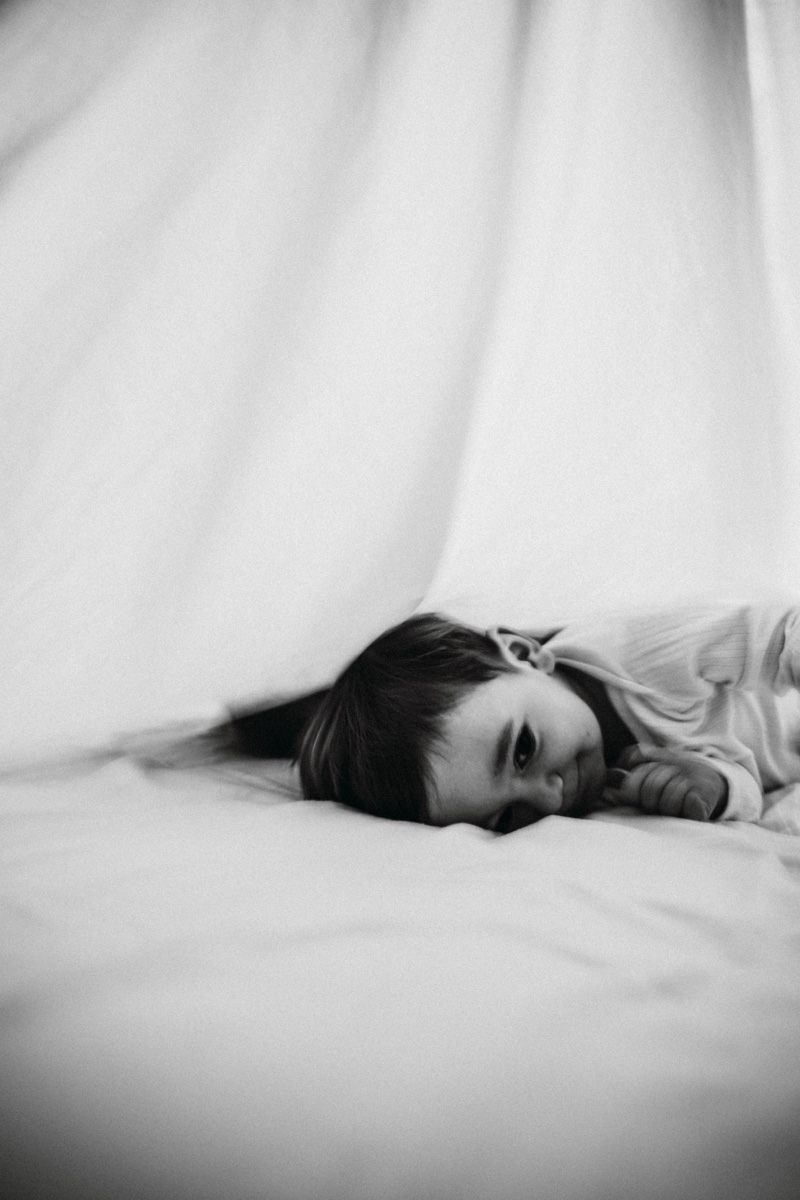
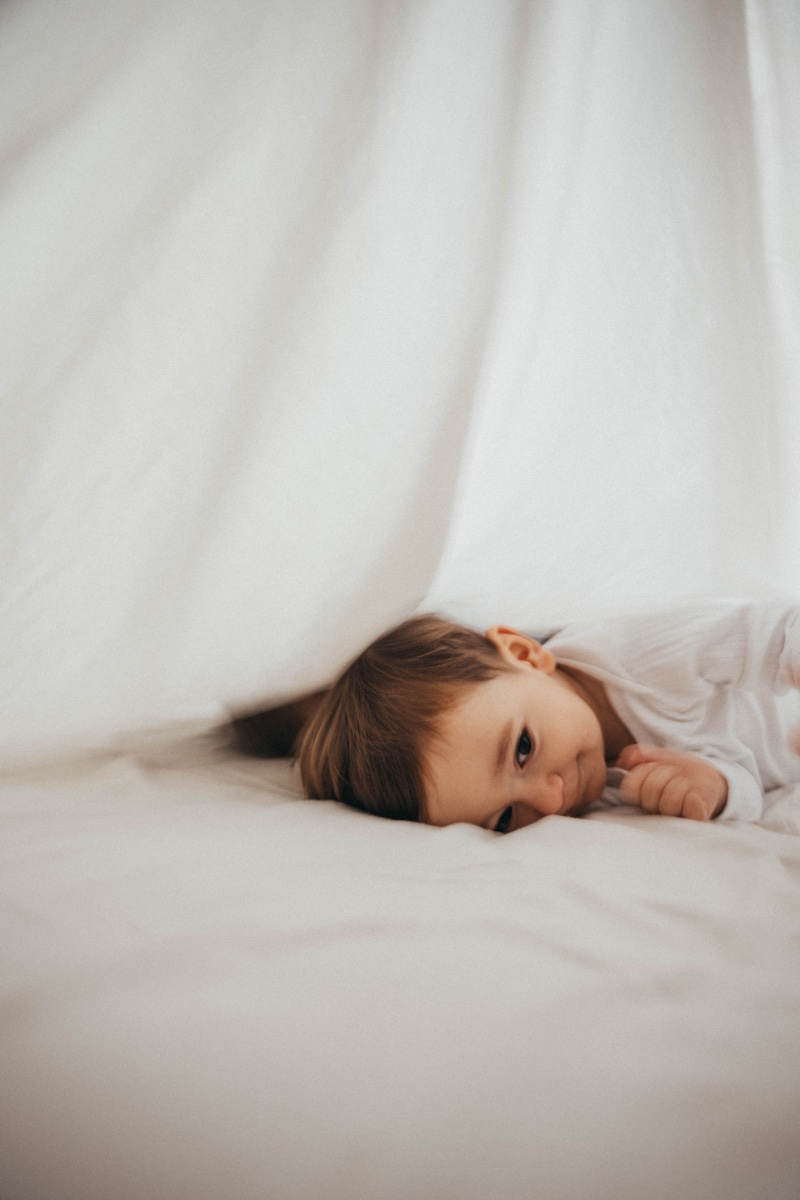
Pablo & Marco: filas que comparten altura, fila 5 más cuadrada, trío a color

diff --git a/en/photo/pablo-marco/index.html b/en/photo/pablo-marco/index.html
@@ -9,7 +9,7 @@
 
 <link rel="alternate" hreflang="es" href="/es/photo/pablo-marco/">
 <link rel="preload" href="/assets/fonts/inter-tight-400.woff2" as="font" type="font/woff2" crossorigin>
-<link rel="stylesheet" href="/assets/css/style.css?v=1794504702911">
+<link rel="stylesheet" href="/assets/css/style.css?v=1794505840093">
 <script>try{var r=document.referrer,m=r&&r.indexOf(location.origin)===0?r.slice(location.origin.length):"";if(/^\/(es|en)\/(film|photo)\/[^\/]+\//.test(m))document.documentElement.classList.add("brand-done")}catch(e){}</script>
 </head>
 <body class="has-compact">
@@ -38,18 +38,18 @@
       <figure class="" style="--ar:0.6667"><img src="/assets/img/photo/pablo-marco/06-2400.jpg" srcset="/assets/img/photo/pablo-marco/06-1200.jpg 1200w, /assets/img/photo/pablo-marco/06-2400.jpg 2400w" sizes="(min-width: 900px) 378px, 100vw" alt="Pablo &amp; Marco" width="1600" height="2400" loading="lazy"></figure>
     </div>
     <div class="scene pair" style="--w:72%;--a:start">
-      <figure class="" style="--ar:0.6667"><img src="/assets/img/photo/pablo-marco/07-2400.jpg" srcset="/assets/img/photo/pablo-marco/07-1200.jpg 1200w, /assets/img/photo/pablo-marco/07-2400.jpg 2400w" sizes="(min-width: 900px) 389px, 100vw" alt="Pablo &amp; Marco" width="1600" height="2400" loading="lazy"></figure>
-      <figure class="" style="--ar:0.6667"><img src="/assets/img/photo/pablo-marco/08-2400.jpg" srcset="/assets/img/photo/pablo-marco/08-1200.jpg 1200w, /assets/img/photo/pablo-marco/08-2400.jpg 2400w" sizes="(min-width: 900px) 389px, 100vw" alt="Pablo &amp; Marco" width="1600" height="2400" loading="lazy"></figure>
+      <figure class="crop" style="--ar:0.8"><img src="/assets/img/photo/pablo-marco/07-2400.jpg" srcset="/assets/img/photo/pablo-marco/07-1200.jpg 1200w, /assets/img/photo/pablo-marco/07-2400.jpg 2400w" sizes="(min-width: 900px) 389px, 100vw" alt="Pablo &amp; Marco" width="1600" height="2400" loading="lazy"></figure>
+      <figure class="crop" style="--ar:0.8"><img src="/assets/img/photo/pablo-marco/08-2400.jpg" srcset="/assets/img/photo/pablo-marco/08-1200.jpg 1200w, /assets/img/photo/pablo-marco/08-2400.jpg 2400w" sizes="(min-width: 900px) 389px, 100vw" alt="Pablo &amp; Marco" width="1600" height="2400" loading="lazy"></figure>
     </div>
-    <div class="scene single" style="--w:50%;--a:end">
-      <figure class="" style="--ar:0.6667"><img src="/assets/img/photo/pablo-marco/09-2400.jpg" srcset="/assets/img/photo/pablo-marco/09-1200.jpg 1200w, /assets/img/photo/pablo-marco/09-2400.jpg 2400w" sizes="(min-width: 900px) 540px, 100vw" alt="Pablo &amp; Marco" width="1600" height="2400" loading="lazy"></figure>
+    <div class="scene single" style="--w:44%;--a:end">
+      <figure class="" style="--ar:0.6667"><img src="/assets/img/photo/pablo-marco/09-2400.jpg" srcset="/assets/img/photo/pablo-marco/09-1200.jpg 1200w, /assets/img/photo/pablo-marco/09-2400.jpg 2400w" sizes="(min-width: 900px) 475px, 100vw" alt="Pablo &amp; Marco" width="1600" height="2400" loading="lazy"></figure>
     </div>
-    <div class="scene single" style="--w:60%;--a:center">
-      <figure class="" style="--ar:0.6667"><img src="/assets/img/photo/pablo-marco/10-2400.jpg" srcset="/assets/img/photo/pablo-marco/10-1200.jpg 1200w, /assets/img/photo/pablo-marco/10-2400.jpg 2400w" sizes="(min-width: 900px) 648px, 100vw" alt="Pablo &amp; Marco" width="1600" height="2400" loading="lazy"></figure>
+    <div class="scene single up" style="--w:50%;--a:start;--up:36">
+      <figure class="" style="--ar:0.6667"><img src="/assets/img/photo/pablo-marco/10-2400.jpg" srcset="/assets/img/photo/pablo-marco/10-1200.jpg 1200w, /assets/img/photo/pablo-marco/10-2400.jpg 2400w" sizes="(min-width: 900px) 540px, 100vw" alt="Pablo &amp; Marco" width="1600" height="2400" loading="lazy"></figure>
     </div>
-    <div class="scene pair" style="--w:66%;--a:end">
-      <figure class="" style="--ar:0.6667"><img src="/assets/img/photo/pablo-marco/11-2400.jpg" srcset="/assets/img/photo/pablo-marco/11-1200.jpg 1200w, /assets/img/photo/pablo-marco/11-2400.jpg 2400w" sizes="(min-width: 900px) 356px, 100vw" alt="Pablo &amp; Marco" width="1600" height="2400" loading="lazy"></figure>
-      <figure class="" style="--ar:0.6667"><img src="/assets/img/photo/pablo-marco/12-2400.jpg" srcset="/assets/img/photo/pablo-marco/12-1200.jpg 1200w, /assets/img/photo/pablo-marco/12-2400.jpg 2400w" sizes="(min-width: 900px) 356px, 100vw" alt="Pablo &amp; Marco" width="1600" height="2400" loading="lazy"></figure>
+    <div class="scene pair up" style="--w:46%;--a:end;--up:18">
+      <figure class="" style="--ar:0.6667"><img src="/assets/img/photo/pablo-marco/11-2400.jpg" srcset="/assets/img/photo/pablo-marco/11-1200.jpg 1200w, /assets/img/photo/pablo-marco/11-2400.jpg 2400w" sizes="(min-width: 900px) 248px, 100vw" alt="Pablo &amp; Marco" width="1600" height="2400" loading="lazy"></figure>
+      <figure class="" style="--ar:0.6667"><img src="/assets/img/photo/pablo-marco/12-2400.jpg" srcset="/assets/img/photo/pablo-marco/12-1200.jpg 1200w, /assets/img/photo/pablo-marco/12-2400.jpg 2400w" sizes="(min-width: 900px) 248px, 100vw" alt="Pablo &amp; Marco" width="1600" height="2400" loading="lazy"></figure>
     </div>
     <div class="scene single" style="--w:54%;--a:start">
       <figure class="" style="--ar:0.6667"><img src="/assets/img/photo/pablo-marco/13-2400.jpg" srcset="/assets/img/photo/pablo-marco/13-1200.jpg 1200w, /assets/img/photo/pablo-marco/13-2400.jpg 2400w" sizes="(min-width: 900px) 583px, 100vw" alt="Pablo &amp; Marco" width="1600" height="2400" loading="lazy"></figure>
@@ -66,8 +66,8 @@
       <figure class="" style="--ar:0.6667"><img src="/assets/img/photo/pablo-marco/18-2400.jpg" srcset="/assets/img/photo/pablo-marco/18-1200.jpg 1200w, /assets/img/photo/pablo-marco/18-2400.jpg 2400w" sizes="(min-width: 900px) 317px, 100vw" alt="Pablo &amp; Marco" width="1600" height="2400" loading="lazy"></figure>
       <figure class="" style="--ar:0.6667"><img src="/assets/img/photo/pablo-marco/19-2400.jpg" srcset="/assets/img/photo/pablo-marco/19-1200.jpg 1200w, /assets/img/photo/pablo-marco/19-2400.jpg 2400w" sizes="(min-width: 900px) 317px, 100vw" alt="Pablo &amp; Marco" width="1600" height="2400" loading="lazy"></figure>
     </div>
-    <div class="scene single" style="--w:50%;--a:center">
-      <figure class="" style="--ar:0.6667"><img src="/assets/img/photo/pablo-marco/20-2400.jpg" srcset="/assets/img/photo/pablo-marco/20-1200.jpg 1200w, /assets/img/photo/pablo-marco/20-2400.jpg 2400w" sizes="(min-width: 900px) 540px, 100vw" alt="Pablo &amp; Marco" width="1600" height="2400" loading="lazy"></figure>
+    <div class="scene single" style="--w:64%;--a:center">
+      <figure class="" style="--ar:0.6667"><img src="/assets/img/photo/pablo-marco/20-2400.jpg" srcset="/assets/img/photo/pablo-marco/20-1200.jpg 1200w, /assets/img/photo/pablo-marco/20-2400.jpg 2400w" sizes="(min-width: 900px) 691px, 100vw" alt="Pablo &amp; Marco" width="1600" height="2400" loading="lazy"></figure>
     </div>
     <div class="scene pair" style="--w:70%;--a:start">
       <figure class="" style="--ar:0.6667"><img src="/assets/img/photo/pablo-marco/21-2400.jpg" srcset="/assets/img/photo/pablo-marco/21-1200.jpg 1200w, /assets/img/photo/pablo-marco/21-2400.jpg 2400w" sizes="(min-width: 900px) 378px, 100vw" alt="Pablo &amp; Marco" width="1600" height="2400" loading="lazy"></figure>

diff --git a/es/photo/pablo-marco/index.html b/es/photo/pablo-marco/index.html
@@ -9,7 +9,7 @@
 
 <link rel="alternate" hreflang="en" href="/en/photo/pablo-marco/">
 <link rel="preload" href="/assets/fonts/inter-tight-400.woff2" as="font" type="font/woff2" crossorigin>
-<link rel="stylesheet" href="/assets/css/style.css?v=1794504702911">
+<link rel="stylesheet" href="/assets/css/style.css?v=1794505840093">
 <script>try{var r=document.referrer,m=r&&r.indexOf(location.origin)===0?r.slice(location.origin.length):"";if(/^\/(es|en)\/(film|photo)\/[^\/]+\//.test(m))document.documentElement.classList.add("brand-done")}catch(e){}</script>
 </head>
 <body class="has-compact">
@@ -38,18 +38,18 @@
       <figure class="" style="--ar:0.6667"><img src="/assets/img/photo/pablo-marco/06-2400.jpg" srcset="/assets/img/photo/pablo-marco/06-1200.jpg 1200w, /assets/img/photo/pablo-marco/06-2400.jpg 2400w" sizes="(min-width: 900px) 378px, 100vw" alt="Pablo &amp; Marco" width="1600" height="2400" loading="lazy"></figure>
     </div>
     <div class="scene pair" style="--w:72%;--a:start">
-      <figure class="" style="--ar:0.6667"><img src="/assets/img/photo/pablo-marco/07-2400.jpg" srcset="/assets/img/photo/pablo-marco/07-1200.jpg 1200w, /assets/img/photo/pablo-marco/07-2400.jpg 2400w" sizes="(min-width: 900px) 389px, 100vw" alt="Pablo &amp; Marco" width="1600" height="2400" loading="lazy"></figure>
-      <figure class="" style="--ar:0.6667"><img src="/assets/img/photo/pablo-marco/08-2400.jpg" srcset="/assets/img/photo/pablo-marco/08-1200.jpg 1200w, /assets/img/photo/pablo-marco/08-2400.jpg 2400w" sizes="(min-width: 900px) 389px, 100vw" alt="Pablo &amp; Marco" width="1600" height="2400" loading="lazy"></figure>
+      <figure class="crop" style="--ar:0.8"><img src="/assets/img/photo/pablo-marco/07-2400.jpg" srcset="/assets/img/photo/pablo-marco/07-1200.jpg 1200w, /assets/img/photo/pablo-marco/07-2400.jpg 2400w" sizes="(min-width: 900px) 389px, 100vw" alt="Pablo &amp; Marco" width="1600" height="2400" loading="lazy"></figure>
+      <figure class="crop" style="--ar:0.8"><img src="/assets/img/photo/pablo-marco/08-2400.jpg" srcset="/assets/img/photo/pablo-marco/08-1200.jpg 1200w, /assets/img/photo/pablo-marco/08-2400.jpg 2400w" sizes="(min-width: 900px) 389px, 100vw" alt="Pablo &amp; Marco" width="1600" height="2400" loading="lazy"></figure>
     </div>
-    <div class="scene single" style="--w:50%;--a:end">
-      <figure class="" style="--ar:0.6667"><img src="/assets/img/photo/pablo-marco/09-2400.jpg" srcset="/assets/img/photo/pablo-marco/09-1200.jpg 1200w, /assets/img/photo/pablo-marco/09-2400.jpg 2400w" sizes="(min-width: 900px) 540px, 100vw" alt="Pablo &amp; Marco" width="1600" height="2400" loading="lazy"></figure>
+    <div class="scene single" style="--w:44%;--a:end">
+      <figure class="" style="--ar:0.6667"><img src="/assets/img/photo/pablo-marco/09-2400.jpg" srcset="/assets/img/photo/pablo-marco/09-1200.jpg 1200w, /assets/img/photo/pablo-marco/09-2400.jpg 2400w" sizes="(min-width: 900px) 475px, 100vw" alt="Pablo &amp; Marco" width="1600" height="2400" loading="lazy"></figure>
     </div>
-    <div class="scene single" style="--w:60%;--a:center">
-      <figure class="" style="--ar:0.6667"><img src="/assets/img/photo/pablo-marco/10-2400.jpg" srcset="/assets/img/photo/pablo-marco/10-1200.jpg 1200w, /assets/img/photo/pablo-marco/10-2400.jpg 2400w" sizes="(min-width: 900px) 648px, 100vw" alt="Pablo &amp; Marco" width="1600" height="2400" loading="lazy"></figure>
+    <div class="scene single up" style="--w:50%;--a:start;--up:36">
+      <figure class="" style="--ar:0.6667"><img src="/assets/img/photo/pablo-marco/10-2400.jpg" srcset="/assets/img/photo/pablo-marco/10-1200.jpg 1200w, /assets/img/photo/pablo-marco/10-2400.jpg 2400w" sizes="(min-width: 900px) 540px, 100vw" alt="Pablo &amp; Marco" width="1600" height="2400" loading="lazy"></figure>
     </div>
-    <div class="scene pair" style="--w:66%;--a:end">
-      <figure class="" style="--ar:0.6667"><img src="/assets/img/photo/pablo-marco/11-2400.jpg" srcset="/assets/img/photo/pablo-marco/11-1200.jpg 1200w, /assets/img/photo/pablo-marco/11-2400.jpg 2400w" sizes="(min-width: 900px) 356px, 100vw" alt="Pablo &amp; Marco" width="1600" height="2400" loading="lazy"></figure>
-      <figure class="" style="--ar:0.6667"><img src="/assets/img/photo/pablo-marco/12-2400.jpg" srcset="/assets/img/photo/pablo-marco/12-1200.jpg 1200w, /assets/img/photo/pablo-marco/12-2400.jpg 2400w" sizes="(min-width: 900px) 356px, 100vw" alt="Pablo &amp; Marco" width="1600" height="2400" loading="lazy"></figure>
+    <div class="scene pair up" style="--w:46%;--a:end;--up:18">
+      <figure class="" style="--ar:0.6667"><img src="/assets/img/photo/pablo-marco/11-2400.jpg" srcset="/assets/img/photo/pablo-marco/11-1200.jpg 1200w, /assets/img/photo/pablo-marco/11-2400.jpg 2400w" sizes="(min-width: 900px) 248px, 100vw" alt="Pablo &amp; Marco" width="1600" height="2400" loading="lazy"></figure>
+      <figure class="" style="--ar:0.6667"><img src="/assets/img/photo/pablo-marco/12-2400.jpg" srcset="/assets/img/photo/pablo-marco/12-1200.jpg 1200w, /assets/img/photo/pablo-marco/12-2400.jpg 2400w" sizes="(min-width: 900px) 248px, 100vw" alt="Pablo &amp; Marco" width="1600" height="2400" loading="lazy"></figure>
     </div>
     <div class="scene single" style="--w:54%;--a:start">
       <figure class="" style="--ar:0.6667"><img src="/assets/img/photo/pablo-marco/13-2400.jpg" srcset="/assets/img/photo/pablo-marco/13-1200.jpg 1200w, /assets/img/photo/pablo-marco/13-2400.jpg 2400w" sizes="(min-width: 900px) 583px, 100vw" alt="Pablo &amp; Marco" width="1600" height="2400" loading="lazy"></figure>
@@ -66,8 +66,8 @@
       <figure class="" style="--ar:0.6667"><img src="/assets/img/photo/pablo-marco/18-2400.jpg" srcset="/assets/img/photo/pablo-marco/18-1200.jpg 1200w, /assets/img/photo/pablo-marco/18-2400.jpg 2400w" sizes="(min-width: 900px) 317px, 100vw" alt="Pablo &amp; Marco" width="1600" height="2400" loading="lazy"></figure>
       <figure class="" style="--ar:0.6667"><img src="/assets/img/photo/pablo-marco/19-2400.jpg" srcset="/assets/img/photo/pablo-marco/19-1200.jpg 1200w, /assets/img/photo/pablo-marco/19-2400.jpg 2400w" sizes="(min-width: 900px) 317px, 100vw" alt="Pablo &amp; Marco" width="1600" height="2400" loading="lazy"></figure>
     </div>
-    <div class="scene single" style="--w:50%;--a:center">
-      <figure class="" style="--ar:0.6667"><img src="/assets/img/photo/pablo-marco/20-2400.jpg" srcset="/assets/img/photo/pablo-marco/20-1200.jpg 1200w, /assets/img/photo/pablo-marco/20-2400.jpg 2400w" sizes="(min-width: 900px) 540px, 100vw" alt="Pablo &amp; Marco" width="1600" height="2400" loading="lazy"></figure>
+    <div class="scene single" style="--w:64%;--a:center">
+      <figure class="" style="--ar:0.6667"><img src="/assets/img/photo/pablo-marco/20-2400.jpg" srcset="/assets/img/photo/pablo-marco/20-1200.jpg 1200w, /assets/img/photo/pablo-marco/20-2400.jpg 2400w" sizes="(min-width: 900px) 691px, 100vw" alt="Pablo &amp; Marco" width="1600" height="2400" loading="lazy"></figure>
     </div>
     <div class="scene pair" style="--w:70%;--a:start">
       <figure class="" style="--ar:0.6667"><img src="/assets/img/photo/pablo-marco/21-2400.jpg" srcset="/assets/img/photo/pablo-marco/21-1200.jpg 1200w, /assets/img/photo/pablo-marco/21-2400.jpg 2400w" sizes="(min-width: 900px) 378px, 100vw" alt="Pablo &amp; Marco" width="1600" height="2400" loading="lazy"></figure>

diff --git a/assets/css/style.css b/assets/css/style.css
@@ -847,3 +847,7 @@ body[data-pv="b"] .book { gap: 64px; }
 .all-photos a { display: inline-flex; align-items: center; min-height: 44px; padding: 0 22px; border: 1px solid var(--accent); color: var(--accent); font-size: 11px; font-weight: 500; letter-spacing: .2em; text-transform: uppercase; text-decoration: none; transition: background-color .25s ease, color .25s ease; }
 @media (hover: hover) and (pointer: fine) { .all-photos a:hover { background: var(--accent); color: var(--bg); } }
 .all-photos a:active { transform: scale(.97); }
+
+/* Montaje: una fila puede SUBIR para compartir altura con la anterior, que queda al otro lado (campo `up` en layouts.json,
+   en % del ancho del montaje). Solo en pantallas anchas: en móvil las fotos van una debajo de otra. */
+@media (min-width: 700px) { .scene.up { margin-top: calc(var(--up) * -1%); } }

diff --git a/en/film/homeless-world-cup-2019-uefa-s-respect-day/index.html b/en/film/homeless-world-cup-2019-uefa-s-respect-day/index.html
@@ -9,7 +9,7 @@
 
 <link rel="alternate" hreflang="es" href="/es/film/homeless-world-cup-2019-uefa-s-respect-day/">
 <link rel="preload" href="/assets/fonts/inter-tight-400.woff2" as="font" type="font/woff2" crossorigin>
-<link rel="stylesheet" href="/assets/css/style.css?v=1794504702911">
+<link rel="stylesheet" href="/assets/css/style.css?v=1794505840093">
 <script>try{var r=document.referrer,m=r&&r.indexOf(location.origin)===0?r.slice(location.origin.length):"";if(/^\/(es|en)\/(film|photo)\/[^\/]+\//.test(m))document.documentElement.classList.add("brand-done")}catch(e){}</script>
 </head>
 <body class="has-compact">

diff --git a/es/film/homeless-world-cup-2019-uefa-s-respect-day/index.html b/es/film/homeless-world-cup-2019-uefa-s-respect-day/index.html
@@ -9,7 +9,7 @@
 
 <link rel="alternate" hreflang="en" href="/en/film/homeless-world-cup-2019-uefa-s-respect-day/">
 <link rel="preload" href="/assets/fonts/inter-tight-400.woff2" as="font" type="font/woff2" crossorigin>
-<link rel="stylesheet" href="/assets/css/style.css?v=1794504702911">
+<link rel="stylesheet" href="/assets/css/style.css?v=1794505840093">
 <script>try{var r=document.referrer,m=r&&r.indexOf(location.origin)===0?r.slice(location.origin.length):"";if(/^\/(es|en)\/(film|photo)\/[^\/]+\//.test(m))document.documentElement.classList.add("brand-done")}catch(e){}</script>
 </head>
 <body class="has-compact">

diff --git a/en/film/homeless-world-cup-2017-dulce-s-story/index.html b/en/film/homeless-world-cup-2017-dulce-s-story/index.html
@@ -9,7 +9,7 @@
 
 <link rel="alternate" hreflang="es" href="/es/film/homeless-world-cup-2017-dulce-s-story/">
 <link rel="preload" href="/assets/fonts/inter-tight-400.woff2" as="font" type="font/woff2" crossorigin>
-<link rel="stylesheet" href="/assets/css/style.css?v=1794504702911">
+<link rel="stylesheet" href="/assets/css/style.css?v=1794505840093">
 <script>try{var r=document.referrer,m=r&&r.indexOf(location.origin)===0?r.slice(location.origin.length):"";if(/^\/(es|en)\/(film|photo)\/[^\/]+\//.test(m))document.documentElement.classList.add("brand-done")}catch(e){}</script>
 </head>
 <body class="has-compact">

diff --git a/es/film/homeless-world-cup-2017-dulce-s-story/index.html b/es/film/homeless-world-cup-2017-dulce-s-story/index.html
@@ -9,7 +9,7 @@
 
 <link rel="alternate" hreflang="en" href="/en/film/homeless-world-cup-2017-dulce-s-story/">
 <link rel="preload" href="/assets/fonts/inter-tight-400.woff2" as="font" type="font/woff2" crossorigin>
-<link rel="stylesheet" href="/assets/css/style.css?v=1794504702911">
+<link rel="stylesheet" href="/assets/css/style.css?v=1794505840093">
 <script>try{var r=document.referrer,m=r&&r.indexOf(location.origin)===0?r.slice(location.origin.length):"";if(/^\/(es|en)\/(film|photo)\/[^\/]+\//.test(m))document.documentElement.classList.add("brand-done")}catch(e){}</script>
 </head>
 <body class="has-compact">

diff --git a/en/film/street-soccer-india-s-experience/index.html b/en/film/street-soccer-india-s-experience/index.html
@@ -9,7 +9,7 @@
 
 <link rel="alternate" hreflang="es" href="/es/film/street-soccer-india-s-experience/">
 <link rel="preload" href="/assets/fonts/inter-tight-400.woff2" as="font" type="font/woff2" crossorigin>
-<link rel="stylesheet" href="/assets/css/style.css?v=1794504702911">
+<link rel="stylesheet" href="/assets/css/style.css?v=1794505840093">
 <script>try{var r=document.referrer,m=r&&r.indexOf(location.origin)===0?r.slice(location.origin.length):"";if(/^\/(es|en)\/(film|photo)\/[^\/]+\//.test(m))document.documentElement.classList.add("brand-done")}catch(e){}</script>
 </head>
 <body class="has-compact">

diff --git a/es/film/street-soccer-india-s-experience/index.html b/es/film/street-soccer-india-s-experience/index.html
@@ -9,7 +9,7 @@
 
 <link rel="alternate" hreflang="en" href="/en/film/street-soccer-india-s-experience/">
 <link rel="preload" href="/assets/fonts/inter-tight-400.woff2" as="font" type="font/woff2" crossorigin>
-<link rel="stylesheet" href="/assets/css/style.css?v=1794504702911">
+<link rel="stylesheet" href="/assets/css/style.css?v=1794505840093">
 <script>try{var r=document.referrer,m=r&&r.indexOf(location.origin)===0?r.slice(location.origin.length):"";if(/^\/(es|en)\/(film|photo)\/[^\/]+\//.test(m))document.documentElement.classList.add("brand-done")}catch(e){}</script>
 </head>
 <body class="has-compact">

diff --git a/en/film/historias-de-amistad-trailer/index.html b/en/film/historias-de-amistad-trailer/index.html
@@ -9,7 +9,7 @@
 
 <link rel="alternate" hreflang="es" href="/es/film/historias-de-amistad-trailer/">
 <link rel="preload" href="/assets/fonts/inter-tight-400.woff2" as="font" type="font/woff2" crossorigin>
-<link rel="stylesheet" href="/assets/css/style.css?v=1794504702911">
+<link rel="stylesheet" href="/assets/css/style.css?v=1794505840093">
 <script>try{var r=document.referrer,m=r&&r.indexOf(location.origin)===0?r.slice(location.origin.length):"";if(/^\/(es|en)\/(film|photo)\/[^\/]+\//.test(m))document.documentElement.classList.add("brand-done")}catch(e){}</script>
 </head>
 <body class="has-compact">

diff --git a/es/film/historias-de-amistad-trailer/index.html b/es/film/historias-de-amistad-trailer/index.html
@@ -9,7 +9,7 @@
 
 <link rel="alternate" hreflang="en" href="/en/film/historias-de-amistad-trailer/">
 <link rel="preload" href="/assets/fonts/inter-tight-400.woff2" as="font" type="font/woff2" crossorigin>
-<link rel="stylesheet" href="/assets/css/style.css?v=1794504702911">
+<link rel="stylesheet" href="/assets/css/style.css?v=1794505840093">
 <script>try{var r=document.referrer,m=r&&r.indexOf(location.origin)===0?r.slice(location.origin.length):"";if(/^\/(es|en)\/(film|photo)\/[^\/]+\//.test(m))document.documentElement.classList.add("brand-done")}catch(e){}</script>
 </head>
 <body class="has-compact">

diff --git a/en/film/street-soccer-andy-s-story/index.html b/en/film/street-soccer-andy-s-story/index.html
@@ -9,7 +9,7 @@
 
 <link rel="alternate" hreflang="es" href="/es/film/street-soccer-andy-s-story/">
 <link rel="preload" href="/assets/fonts/inter-tight-400.woff2" as="font" type="font/woff2" crossorigin>
-<link rel="stylesheet" href="/assets/css/style.css?v=1794504702911">
+<link rel="stylesheet" href="/assets/css/style.css?v=1794505840093">
 <script>try{var r=document.referrer,m=r&&r.indexOf(location.origin)===0?r.slice(location.origin.length):"";if(/^\/(es|en)\/(film|photo)\/[^\/]+\//.test(m))document.documentElement.classList.add("brand-done")}catch(e){}</script>
 </head>
 <body class="has-compact">
